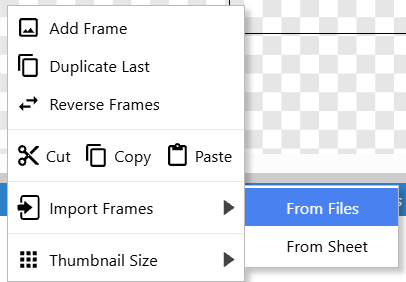
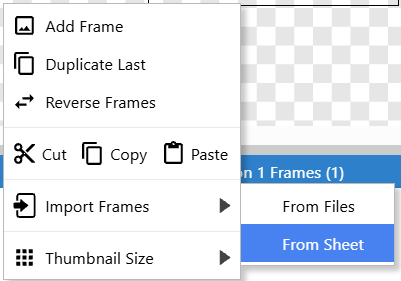
Outside Assets 2A: menu screenshot with From Sheet highlighted
Claude-Session: https://claude.ai/code/session_0163dwnSPGg46bECUvJ2NhG6

diff --git a/construct3/platformer-outside-assets/index.html b/construct3/platformer-outside-assets/index.html
@@ -159,7 +159,7 @@
 <ol>
 <li>On the <b>Layout 1</b> tab (middle of the screen), double-click inside the layout (or right-click it and choose <b>Insert new object</b>).</li>
 <li>The <b>Create new object type</b> window opens. Click <b>Sprite</b> (under <b>General</b>; scroll down, or type <b>Sprite</b> in the <b>Search</b> box at the top-right).<img src="../../assets/construct3/create-new-object-sprite.png" alt="Construct 3 Create new object type window: Sprite selected under General, a Name box at the bottom, and Insert and Cancel buttons" width="761" height="635" style="display:block;max-width:100%;height:auto;margin:.5em 0;border:1px solid #ccc;border-radius:6px"> Type <b>Player</b> in <b>Name</b> at the bottom.<img src="../../assets/construct3/name-player.png" alt="Bottom of the Create new object type window: Name box reading Player, with Insert and Cancel buttons" width="710" height="122" style="display:block;max-width:100%;height:auto;margin:.5em 0;border:1px solid #ccc;border-radius:6px">Click <b>Insert</b>, then click on the layout. The <b>Animations Editor</b> opens over the middle of the screen with one blank frame.<img src="../../assets/construct3/animations-editor.png" alt="Construct 3 Animations Editor for Player: colour picker on the left, drawing tools down a narrow column, an empty image in the middle, Animations on the right, and Animation frames along the bottom" width="1822" height="873" style="display:block;max-width:100%;height:auto;margin:.5em 0;border:1px solid #ccc;border-radius:6px"></li>
-<li>Find the <b>Animation 1 Frames</b> panel (bottom middle of the Animations Editor, under the image, with a blue title bar). It shows one blank frame, numbered <b>0</b>.<img src="../../assets/construct3/animation-frames-panel.png" alt="Construct 3 Animations Editor, bottom middle: a blue bar titled Animation 1 Frames (1) with one blank frame numbered 0 under it" width="1180" height="189" style="display:block;max-width:100%;height:auto;margin:.5em 0;border:1px solid #ccc;border-radius:6px">Right-click an empty white spot in that panel. A menu opens:<img src="../../assets/construct3/frames-right-click-menu.png?v=2" alt="Construct 3 right-click menu in the frames panel with Import Frames open, showing two choices: From Files and From Sheet" width="406" height="282" style="display:block;max-width:100%;height:auto;margin:.5em 0;border:1px solid #ccc;border-radius:6px">Hold the mouse over <b>Import Frames</b> (the arrow ▶ on its right opens two more choices, <b>From Files</b> and <b>From Sheet</b>) and click <b>From Sheet</b>.</li>
+<li>Find the <b>Animation 1 Frames</b> panel (bottom middle of the Animations Editor, under the image, with a blue title bar). It shows one blank frame, numbered <b>0</b>.<img src="../../assets/construct3/animation-frames-panel.png" alt="Construct 3 Animations Editor, bottom middle: a blue bar titled Animation 1 Frames (1) with one blank frame numbered 0 under it" width="1180" height="189" style="display:block;max-width:100%;height:auto;margin:.5em 0;border:1px solid #ccc;border-radius:6px">Right-click an empty white spot in that panel. A menu opens:<img src="../../assets/construct3/frames-right-click-menu.png?v=3" alt="Construct 3 right-click menu in the frames panel with Import Frames open and From Sheet highlighted below From Files" width="401" height="281" style="display:block;max-width:100%;height:auto;margin:.5em 0;border:1px solid #ccc;border-radius:6px">Hold the mouse over <b>Import Frames</b> (the arrow ▶ on its right opens two more choices, <b>From Files</b> and <b>From Sheet</b>) and click <b>From Sheet</b>.</li>
 </ol>
 <div class="note pick"><b>Pick the right one:</b> choose <b>From Sheet</b>, not <b>From Files</b>. Your alien is one picture with 5 poses in a row (a sprite sheet). From Sheet cuts it into 5 frames; From Files would bring it in as one wide frame.</div>
 <ol start="4">
